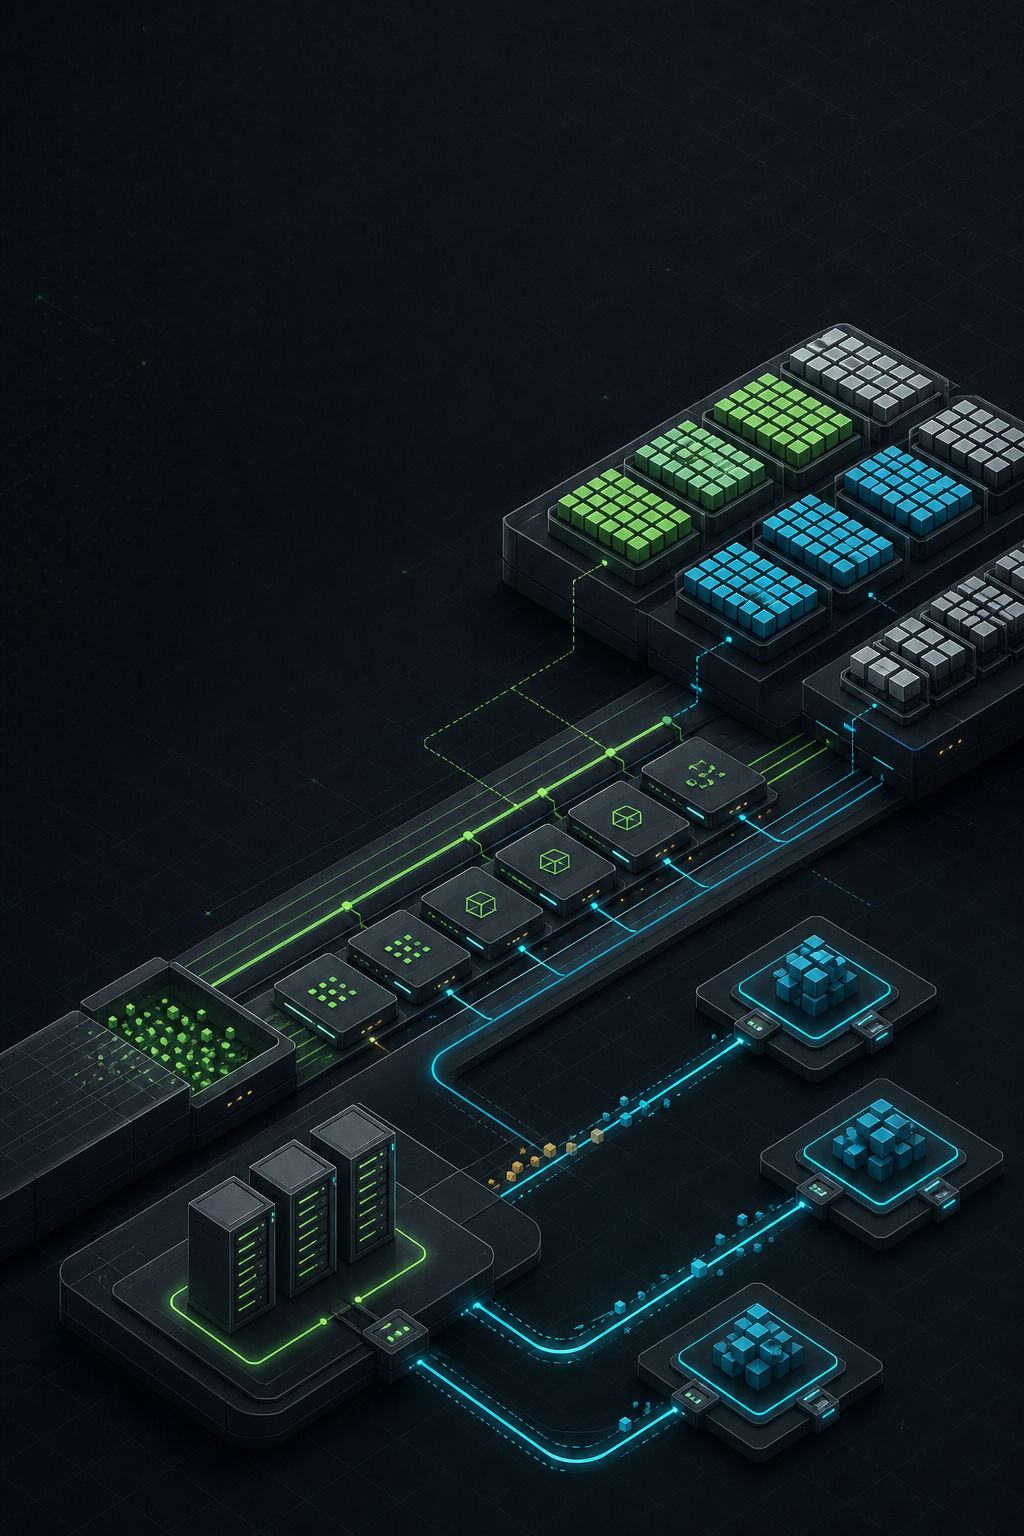
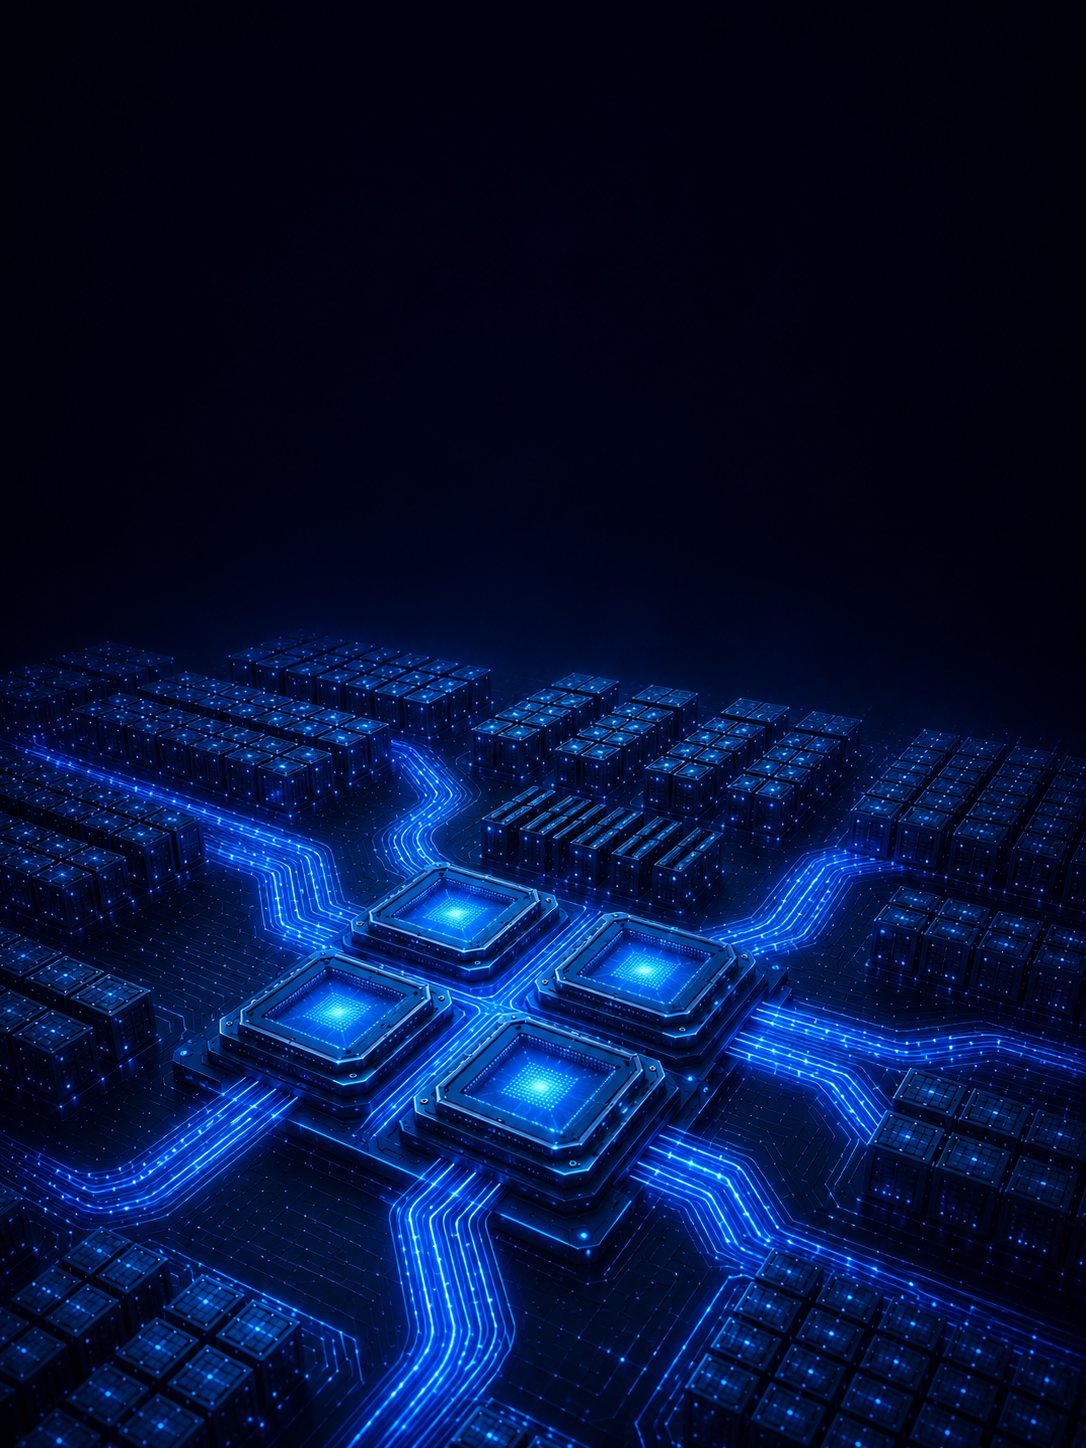
Refresh Unity DOTS Introduction book cover
Rework the cover layout in the markdown source with a titled overlay
on a new background image, regenerate the standalone HTML and PDF,
and rename the catalog cover to *-en-cover.png. Update ebooks.html
references and adjust the spine gradient/tint to match the new cover.

diff --git a/books/unity-dots-introduction/en/unity-dots-introduction.html b/books/unity-dots-introduction/en/unity-dots-introduction.html
@@ -10,7 +10,7 @@
     <meta name="ai-policy" content="Public reading and citation are allowed. Automated scraping, dataset inclusion, AI training, and AI answer ingestion are not permitted without written permission.">
     <meta property="og:title" content="Unity DOTS Introduction">
     <meta property="og:description" content="A field guide to Entities 6.5, Netcode for Entities, ECS workflows, optimization, and migration.">
-    <meta property="og:image" content="../../images/ebooks/unity-dots-introduction-cover.png">
+    <meta property="og:image" content="../../images/ebooks/unity-dots-introduction-en-cover.png">
     <title>Unity DOTS Introduction</title>
     <style>
       @page {
@@ -238,6 +238,68 @@
         object-fit: cover;
       }
 
+      .book-cover__content,
+      .book-cover__meta {
+        position: relative;
+        z-index: 1;
+      }
+
+      .book-cover__content {
+        max-width: 640px;
+        padding: 86px 60px 0;
+      }
+
+      .book-cover__kicker {
+        margin: 0 0 18px;
+        color: #3dd4ff;
+        font-size: 16px;
+        font-weight: 800;
+        letter-spacing: 0.02em;
+      }
+
+      .book-cover h1 {
+        margin: 0;
+        padding: 0;
+        border: 0;
+        color: #f7fbff;
+        font-size: 72px;
+        line-height: 1.04;
+        letter-spacing: -0.01em;
+        font-weight: 800;
+      }
+
+      .book-cover__subtitle {
+        max-width: 560px;
+        margin: 28px 0 0;
+        color: #d9e6f2;
+        font-size: 20px;
+        font-weight: 500;
+        line-height: 1.5;
+      }
+
+      .book-cover__meta {
+        position: absolute;
+        left: 60px;
+        right: 60px;
+        bottom: 60px;
+        display: flex;
+        justify-content: space-between;
+        align-items: flex-end;
+        color: #f7fbff;
+      }
+
+      .book-cover__meta p {
+        margin: 0;
+        font-size: 18px;
+        font-weight: 700;
+        line-height: 1.25;
+      }
+
+      .book-cover__edition {
+        color: #3dd4ff;
+        text-align: right;
+      }
+
       .copyright-page {
         margin: 0 0 34px;
         padding: 24px 0 28px;
@@ -386,6 +448,32 @@
           margin: -28px -20px 38px;
         }
 
+        .book-cover__content {
+          padding: 48px 32px 0;
+        }
+
+        .book-cover__kicker {
+          font-size: 13px;
+        }
+
+        .book-cover h1 {
+          font-size: 44px;
+        }
+
+        .book-cover__subtitle {
+          font-size: 16px;
+        }
+
+        .book-cover__meta {
+          left: 32px;
+          right: 32px;
+          bottom: 32px;
+        }
+
+        .book-cover__meta p {
+          font-size: 14px;
+        }
+
         .part-page {
           min-height: 420px;
         }
@@ -439,6 +527,32 @@
           margin: 0;
           break-after: page;
           page: cover;
+        }
+
+        .book-cover__content {
+          padding: 28mm 22mm 0;
+        }
+
+        .book-cover__kicker {
+          font-size: 11pt;
+        }
+
+        .book-cover h1 {
+          font-size: 44pt;
+        }
+
+        .book-cover__subtitle {
+          font-size: 13pt;
+        }
+
+        .book-cover__meta {
+          left: 22mm;
+          right: 22mm;
+          bottom: 22mm;
+        }
+
+        .book-cover__meta p {
+          font-size: 11pt;
         }
 
         .copyright-page {
@@ -607,7 +721,18 @@
       <a href="./unity-dots-introduction.pdf">PDF</a>
       <a href="https://github.com/luke-youngmin-cho/unity-dots-introduction" target="_blank" rel="noopener">Source</a>
     </nav>
-    <main><!-- markdownlint-disable --><div class="book-cover"><img src="../assets/images/unity-dots-introduction-cover.png" alt="Unity DOTS Introduction cover"></div><section class="copyright-page">
+    <main><!-- markdownlint-disable --><section class="book-cover" aria-label="Cover for Unity DOTS Introduction">
+  <img src="../assets/images/unity-dots-cover-background.png" alt="Abstract cover image representing Unity DOTS — ECS chunks, parallel jobs, and netcode synchronization">
+  <div class="book-cover__content">
+    <p class="book-cover__kicker">Unity 6000.5 &middot; Entities 6.5</p>
+    <h1>Unity DOTS<br>Introduction</h1>
+    <p class="book-cover__subtitle">Entities, Netcode, ECS workflows, jobs, debugging, optimization, and migration.</p>
+  </div>
+  <div class="book-cover__meta">
+    <p>Youngmin Cho (SillyToolValley)</p>
+    <p class="book-cover__edition">English Edition &middot; 2026</p>
+  </div>
+</section><section class="copyright-page">
 <p class="copyright-page__title">Unity DOTS Introduction</p>
 <p>A field guide to Entities 6.5, Netcode for Entities, ECS workflows, optimization, and migration.</p>
 <p>English edition generated from the Unity DOTS Introduction repository on 2026-05-19.</p>

diff --git a/ebooks.html b/ebooks.html
@@ -177,18 +177,18 @@
                                 data-summary="A practical book for Unity DOTS workflows: SubScene baking, ECS components, systems, jobs, EntityCommandBuffer, Netcode for Entities, optimization, debugging, and migration."
                                 data-meta="Unity / DOTS / handbook"
                                 data-tags="Unity,DOTS,ECS,Netcode,Entities 6.5"
-                                data-cover="images/ebooks/unity-dots-introduction-cover.png"
+                                data-cover="images/ebooks/unity-dots-introduction-en-cover.png"
                                 data-reader="books/unity-dots-introduction/reader.html?lang=en"
                                 data-spine-label="Unity DOTS"
-                                data-spine-gradient="linear-gradient(180deg, #334a39, #6e946f)"
-                                data-cover-tint="#22272a"
+                                data-spine-gradient="linear-gradient(180deg, #0a1424, #2a5da8)"
+                                data-cover-tint="#0a1830"
                                 aria-label="Select Unity DOTS Introduction">
                                 <span class="book-object" aria-hidden="true">
                                     <span class="book-face book-front">
-                                        <img src="images/ebooks/unity-dots-introduction-cover.png" alt="">
+                                        <img src="images/ebooks/unity-dots-introduction-en-cover.png" alt="">
                                     </span>
                                     <span class="book-face book-back">
-                                        <img src="images/ebooks/unity-dots-introduction-cover.png" alt="">
+                                        <img src="images/ebooks/unity-dots-introduction-en-cover.png" alt="">
                                     </span>
                                     <span class="book-face book-spine"><span>Unity DOTS</span></span>
                                     <span class="book-face book-pages"></span>
@@ -253,7 +253,7 @@
                         <article class="tool-card ebook-card fade-in" data-book-id="unity-dots-introduction" data-category="unity" data-search="unity dots introduction entities ecs netcode baker subscene jobs burst entity command buffer migration optimization debugging reader">
                             <a href="books/unity-dots-introduction/reader.html?lang=en" class="tool-card-cover" aria-label="Open Unity DOTS Introduction reader"></a>
                             <div class="tool-thumb">
-                                <img src="images/ebooks/unity-dots-introduction-cover.png" alt="">
+                                <img src="images/ebooks/unity-dots-introduction-en-cover.png" alt="">
                             </div>
                             <div class="tool-body">
                                 <div class="card-meta">

diff --git a/books/unity-dots-introduction/source/en/unity-dots-introduction.md b/books/unity-dots-introduction/source/en/unity-dots-introduction.md
@@ -1,6 +1,17 @@
 <!-- markdownlint-disable -->
 
-<div class="book-cover"><img src="../assets/images/unity-dots-introduction-cover.png" alt="Unity DOTS Introduction cover"></div>
+<section class="book-cover" aria-label="Cover for Unity DOTS Introduction">
+  <img src="../assets/images/unity-dots-cover-background.png" alt="Abstract cover image representing Unity DOTS — ECS chunks, parallel jobs, and netcode synchronization">
+  <div class="book-cover__content">
+    <p class="book-cover__kicker">Unity 6000.5 &middot; Entities 6.5</p>
+    <h1>Unity DOTS<br>Introduction</h1>
+    <p class="book-cover__subtitle">Entities, Netcode, ECS workflows, jobs, debugging, optimization, and migration.</p>
+  </div>
+  <div class="book-cover__meta">
+    <p>Youngmin Cho (SillyToolValley)</p>
+    <p class="book-cover__edition">English Edition &middot; 2026</p>
+  </div>
+</section>
 
 <section class="copyright-page">
 <p class="copyright-page__title">Unity DOTS Introduction</p>